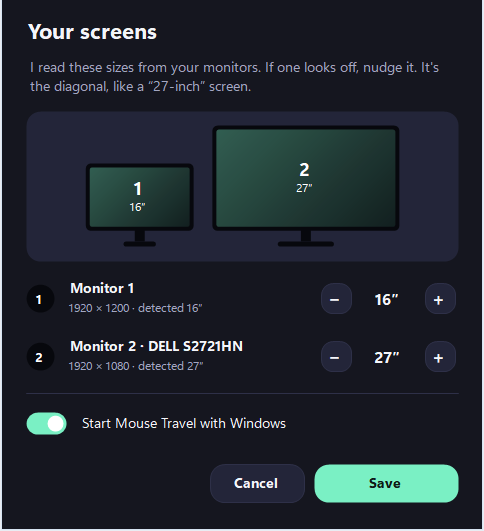
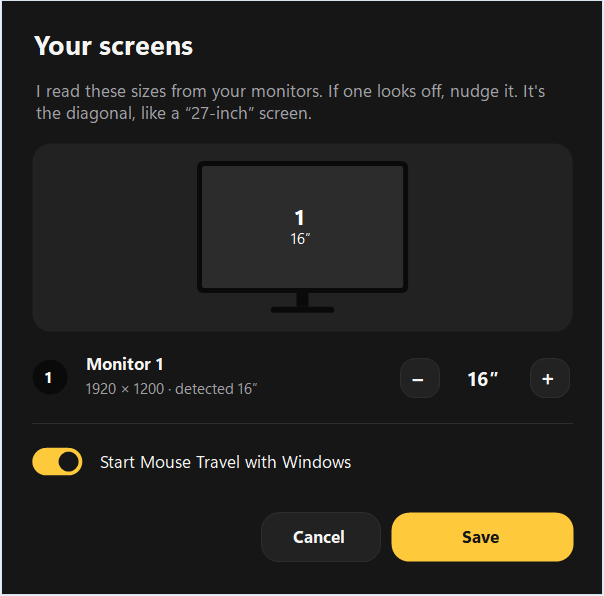
v1.1: flat neutral redesign and reliable start with Windows
- New look: neutral grays, a single road-yellow accent, no gradients
  (popup, odometer, road, Screens window, share card, tray icon)
- Start with Windows now uses a Startup-folder shortcut; some PCs skip
  HKCU Run entries even when approved. Old Run entries migrate automatically.

diff --git a/src/MouseTravel.cs b/src/MouseTravel.cs
@@ -11,6 +11,7 @@ using System.Drawing.Text;
 using System.Globalization;
 using System.IO;
 using System.Management;
+using System.Reflection;
 using System.Runtime.InteropServices;
 using System.Text;
 using System.Threading;
@@ -686,62 +687,80 @@ class TrayApp : ApplicationContext
     }
 
     // --- system
-    // Windows only launches a Run entry that is also switched on under StartupApproved
-    // (the toggle in Task Manager > Startup apps): first byte 02 = enabled, 03 = disabled.
-    const string ApprovedKey = @"Software\Microsoft\Windows\CurrentVersion\Explorer\StartupApproved\Run";
+    // Start with Windows = a shortcut in the user's Startup folder. (Some PCs skip HKCU\...\Run
+    // entries even when approved; the Startup folder is launched reliably.) Task Manager's
+    // Startup apps toggle for it lives under StartupApproved\StartupFolder: odd first byte = disabled.
+    const string ApprovedRunKey = @"Software\Microsoft\Windows\CurrentVersion\Explorer\StartupApproved\Run";
+    const string ApprovedFolderKey = @"Software\Microsoft\Windows\CurrentVersion\Explorer\StartupApproved\StartupFolder";
+    const string ShortcutName = "Mouse Travel.lnk";
 
-    static byte[] Approval()
+    static string ShortcutPath { get { return Path.Combine(Environment.GetFolderPath(Environment.SpecialFolder.Startup), ShortcutName); } }
+
+    static bool Disabled(string approvedKey, string name)
     {
-        try { using (var k = Registry.CurrentUser.OpenSubKey(ApprovedKey)) return k == null ? null : k.GetValue("MouseTravel") as byte[]; }
-        catch { return null; }
+        try
+        {
+            using (var k = Registry.CurrentUser.OpenSubKey(approvedKey))
+            {
+                var a = k == null ? null : k.GetValue(name) as byte[];
+                return a != null && a.Length > 0 && (a[0] & 1) == 1;
+            }
+        }
+        catch { return false; }
+    }
+
+    static void DeleteValue(string key, string name)
+    {
+        try { using (var k = Registry.CurrentUser.OpenSubKey(key, true)) if (k != null) k.DeleteValue(name, false); }
+        catch { }
     }
 
     static bool IsStartup()
     {
-        try
-        {
-            using (var k = Registry.CurrentUser.OpenSubKey(RunKey))
-            {
-                if (k == null || k.GetValue("MouseTravel") == null) return false;
-            }
-            byte[] a = Approval();
-            return a == null || a.Length == 0 || (a[0] & 1) == 0; // odd first byte = disabled
-        }
-        catch { return false; }
+        return File.Exists(ShortcutPath) && !Disabled(ApprovedFolderKey, ShortcutName);
     }
 
     static void SetStartup(bool on)
     {
         try
         {
-            using (var k = Registry.CurrentUser.CreateSubKey(RunKey))
+            if (on)
             {
-                if (on) k.SetValue("MouseTravel", "\"" + Application.ExecutablePath + "\"");
-                else k.DeleteValue("MouseTravel", false);
+                Type t = Type.GetTypeFromProgID("WScript.Shell");
+                object shell = Activator.CreateInstance(t);
+                object lnk = t.InvokeMember("CreateShortcut", BindingFlags.InvokeMethod, null, shell, new object[] { ShortcutPath });
+                Type lt = lnk.GetType();
+                lt.InvokeMember("TargetPath", BindingFlags.SetProperty, null, lnk, new object[] { Application.ExecutablePath });
+                lt.InvokeMember("WorkingDirectory", BindingFlags.SetProperty, null, lnk, new object[] { Path.GetDirectoryName(Application.ExecutablePath) });
+                lt.InvokeMember("Description", BindingFlags.SetProperty, null, lnk, new object[] { "Mouse Travel" });
+                lt.InvokeMember("Save", BindingFlags.InvokeMethod, null, lnk, null);
+                Marshal.FinalReleaseComObject(lnk);
+                Marshal.FinalReleaseComObject(shell);
             }
-            using (var k = Registry.CurrentUser.CreateSubKey(ApprovedKey))
-            {
-                if (on) k.SetValue("MouseTravel", new byte[] { 2, 0, 0, 0, 0, 0, 0, 0, 0, 0, 0, 0 }, RegistryValueKind.Binary);
-                else k.DeleteValue("MouseTravel", false);
-            }
+            else if (File.Exists(ShortcutPath)) File.Delete(ShortcutPath);
+            DeleteValue(ApprovedFolderKey, ShortcutName);
         }
         catch { }
     }
 
-    // Older builds wrote only the Run entry, which Windows skips. Repair it (and a moved .exe path),
-    // but leave it alone if someone switched it off in Task Manager.
+    // Move older installs from the Run key to the Startup folder (unless switched off in Task Manager),
+    // and keep the shortcut pointing at this .exe if it was moved.
     static void RepairStartup()
     {
         try
         {
-            string want = "\"" + Application.ExecutablePath + "\"";
-            using (var k = Registry.CurrentUser.OpenSubKey(RunKey))
+            bool hadRun;
+            using (var k = Registry.CurrentUser.OpenSubKey(RunKey)) hadRun = k != null && k.GetValue("MouseTravel") != null;
+            if (hadRun)
             {
-                object cur = k == null ? null : k.GetValue("MouseTravel");
-                if (cur == null) return;
-                byte[] a = Approval();
-                bool disabledByUser = a != null && a.Length > 0 && (a[0] & 1) == 1;
-                if (!disabledByUser && (a == null || !want.Equals(cur as string, StringComparison.OrdinalIgnoreCase))) SetStartup(true);
+                bool wasOff = Disabled(ApprovedRunKey, "MouseTravel");
+                DeleteValue(RunKey, "MouseTravel");
+                DeleteValue(ApprovedRunKey, "MouseTravel");
+                if (!wasOff) SetStartup(true);
+            }
+            else if (File.Exists(ShortcutPath) && !Disabled(ApprovedFolderKey, ShortcutName))
+            {
+                SetStartup(true); // cheap, and fixes a stale target path
             }
         }
         catch { }
@@ -797,8 +816,9 @@ static class Fonts
 
 // Colors follow the Windows light/dark setting (and High Contrast). The odometer is a physical
 // object, so it stays dark in both. Contrast, worst case per palette:
-//   dark:  secondary #A3A6C2 on raised #232539 = 6.4:1, ink on mint = 12.6:1
-//   light: secondary #5D6080 on white = 6.1:1, accent text #0B7A57 on #F5F5F9 = 4.9:1
+//   dark:  secondary #A1A1A6 on raised #222222 = 6.2:1, ink on road-yellow = 11.8:1
+//   light: secondary #6B6B70 on white = 5.3:1, accent text #8A5A00 on #F6F6F4 = 5.5:1
+// Neutral grays with one accent: the yellow of a road's lane markings. No gradients.
 class Palette
 {
     public bool Dark;
@@ -831,9 +851,9 @@ class Palette
     {
         return new Palette
         {
-            Dark = true, Surface = Hex(0x15161F), Raised = Hex(0x232539), Content = Hex(0xF4F5FA), Secondary = Hex(0xA3A6C2),
-            Hairline = Hex(0x2E3048), Accent = Hex(0x7AF0C4), AccentText = Hex(0x7AF0C4), OnAccent = Hex(0x0E1A16),
-            Signal = Hex(0xFF8ABE), Road = Hex(0x262840), RoadLine = Hex(0x5F6286), TrackOff = Hex(0x5F6286), Bezel = Hex(0x07080D),
+            Dark = true, Surface = Hex(0x161616), Raised = Hex(0x222222), Content = Hex(0xF5F5F3), Secondary = Hex(0xA1A1A6),
+            Hairline = Hex(0x2E2E30), Accent = Hex(0xFFC93C), AccentText = Hex(0xFFC93C), OnAccent = Hex(0x161616),
+            Signal = Hex(0xFFC93C), Road = Hex(0x262626), RoadLine = Hex(0x5A5A5E), TrackOff = Hex(0x636366), Bezel = Hex(0x0A0A0A),
         };
     }
 
@@ -841,9 +861,9 @@ class Palette
     {
         return new Palette
         {
-            Dark = false, Surface = Hex(0xF5F5F9), Raised = Hex(0xFFFFFF), Content = Hex(0x17182A), Secondary = Hex(0x5D6080),
-            Hairline = Hex(0xE2E3EC), Accent = Hex(0x3DDBA3), AccentText = Hex(0x0B7A57), OnAccent = Hex(0x0E1A16),
-            Signal = Hex(0xE0457F), Road = Hex(0xE4E5EE), RoadLine = Hex(0xA9ABC0), TrackOff = Hex(0x85879F), Bezel = Hex(0x2A2C40),
+            Dark = false, Surface = Hex(0xF6F6F4), Raised = Hex(0xFFFFFF), Content = Hex(0x161616), Secondary = Hex(0x6B6B70),
+            Hairline = Hex(0xE4E4E1), Accent = Hex(0xFFC93C), AccentText = Hex(0x8A5A00), OnAccent = Hex(0x161616),
+            Signal = Hex(0x8A5A00), Road = Hex(0xEAEAE7), RoadLine = Hex(0xB0B0B3), TrackOff = Hex(0x8E8E93), Bezel = Hex(0x222222),
         };
     }
 
@@ -948,10 +968,14 @@ class Toggle : CheckBox
 
         float tw = 40 * sc, th = 22 * sc;
         var track = new RectangleF(3 * sc, (Height - th) / 2, tw, th);
-        using (var path = Art.Round(track, th / 2)) using (var b = new SolidBrush(Checked ? pal.Accent : pal.TrackOff)) g.FillPath(b, path);
+        using (var path = Art.Round(track, th / 2))
+        {
+            using (var b = new SolidBrush(Checked ? pal.Accent : pal.TrackOff)) g.FillPath(b, path);
+            if (Checked && !pal.Dark) using (var p = new Pen(pal.AccentText)) g.DrawPath(p, path); // yellow alone is too faint on light gray
+        }
         float d = th - 6 * sc;
         float kx = Checked ? track.Right - 3 * sc - d : track.X + 3 * sc;
-        using (var b = new SolidBrush(Color.White)) g.FillEllipse(b, kx, track.Y + 3 * sc, d, d);
+        using (var b = new SolidBrush(Checked ? pal.OnAccent : Color.White)) g.FillEllipse(b, kx, track.Y + 3 * sc, d, d);
         if (Focused && ShowFocusCues)
         {
             var ring = RectangleF.Inflate(track, 2 * sc, 2 * sc);
@@ -1122,11 +1146,12 @@ class Popup : Form
         float rad = r.Height / 2;
         using (var path = Art.Round(r, rad)) using (var b = new SolidBrush(pal.Road)) g.FillPath(b, path);
         float carX = r.X + r.Height * 0.6f + (r.Width - r.Height * 1.2f) * frac;
-        if (frac > 0)
-            using (var path = Art.Round(new RectangleF(r.X, r.Y, carX - r.X + rad * 0.3f, r.Height), rad))
-            using (var b = new SolidBrush(Color.FromArgb(pal.Dark ? 90 : 150, pal.Accent))) g.FillPath(b, path);
+        // a solid lane line behind the mouse (distance driven), dashes on the road ahead, then a checkered flag
+        float laneStart = r.X + rad * 0.8f;
+        if (carX > laneStart)
+            using (var pen = new Pen(pal.Dark ? pal.Accent : pal.AccentText, S(3)) { StartCap = LineCap.Round, EndCap = LineCap.Round })
+                g.DrawLine(pen, laneStart, r.Y + rad, carX, r.Y + rad);
 
-        // dashes on the road ahead, then a little checkered flag
         float flag = r.Height * 0.48f, flagX = r.Right - rad - flag / 2;
         if (flagX - S(6) > carX + rad)
             using (var pen = new Pen(pal.RoadLine, S(2))) { pen.DashPattern = new float[] { 3, 3 }; g.DrawLine(pen, carX + rad, r.Y + rad, flagX - S(6), r.Y + rad); }
@@ -1140,7 +1165,7 @@ class Popup : Form
         g.TranslateTransform(carX, r.Y + rad);
         g.RotateTransform(90);
         float mw = r.Height * 0.8f, mh = mw * 1.4f;
-        Art.DrawMouse(g, new RectangleF(-mw / 2, -mh / 2, mw, mh), Art.Mint);
+        Art.DrawMouse(g, new RectangleF(-mw / 2, -mh / 2, mw, mh), Art.Yellow);
         g.Restore(state);
     }
 
@@ -1337,8 +1362,8 @@ class SetupForm : Form
                 using (var body = Art.Round(r, S(5))) g.FillPath(bezel, body);
 
                 var screen = new RectangleF(r.X + S(4), r.Y + S(4), r.Width - S(8), r.Height - S(8));
-                using (var glow = new LinearGradientBrush(screen, Color.FromArgb(95, Art.Mint), Color.FromArgb(25, Art.Mint), 45f))
-                using (var sp = Art.Round(screen, S(2))) g.FillPath(glow, sp);
+                using (var glass = new SolidBrush(Palette.Shade(pal.Bezel, 0.14f)))
+                using (var sp = Art.Round(screen, S(2))) g.FillPath(glass, sp);
 
                 var label = Rectangle.Round(screen);
                 var top = new Rectangle(label.X, label.Y, label.Width, label.Height / 2 + S(4));
@@ -1355,9 +1380,9 @@ class SetupForm : Form
 
 static class Art
 {
-    public static readonly Color Mint = Palette.Hex(0x7AF0C4);
-    public static readonly Color Pink = Palette.Hex(0xFF8ABE);
-    static readonly Color Ink = Palette.Hex(0x15161F);
+    public static readonly Color Yellow = Palette.Hex(0xFFC93C);
+    static readonly Color Ink = Palette.Hex(0x161616);
+    static readonly Color Paper = Palette.Hex(0xF5F5F3);
 
     public static GraphicsPath Round(RectangleF r, float radius)
     {
@@ -1391,7 +1416,7 @@ static class Art
         }
         float ww = r.Width * 0.2f, wh = r.Height * 0.2f;
         var wheel = new RectangleF(r.X + (r.Width - ww) / 2, r.Y + r.Height * 0.16f, ww, wh);
-        using (var path = Round(wheel, ww / 2)) using (var b = new SolidBrush(Pink)) g.FillPath(b, path);
+        using (var path = Round(wheel, ww / 2)) using (var b = new SolidBrush(Ink)) g.FillPath(b, path);
         g.SmoothingMode = old;
     }
 
@@ -1409,8 +1434,8 @@ static class Art
         SizeF size = OdometerSize(w, h, intDigits);
         var housing = new RectangleF(at.X, at.Y, size.Width, size.Height);
         using (var path = Round(housing, w * 0.24f))
-        using (var b = new SolidBrush(Palette.Hex(0x07080D)))
-        using (var p = new Pen(Palette.Hex(0x2E3048)))
+        using (var b = new SolidBrush(Palette.Hex(0x0A0A0A)))
+        using (var p = new Pen(Palette.Hex(0x2E2E30)))
         {
             g.FillPath(b, path);
             g.DrawPath(p, path);
@@ -1428,7 +1453,7 @@ static class Art
                 {
                     x += dot - gap;
                     float r = w * 0.075f;
-                    using (var b = new SolidBrush(Palette.Hex(0xF4F5FA))) g.FillEllipse(b, x - dot / 2 - r, y + h * 0.76f - r, r * 2, r * 2);
+                    using (var b = new SolidBrush(Paper)) g.FillEllipse(b, x - dot / 2 - r, y + h * 0.76f - r, r * 2, r * 2);
                 }
                 double pow = Math.Pow(10, place);
                 double whole = Math.Floor(units / pow);
@@ -1447,21 +1472,13 @@ static class Art
         using (var path = Round(r, r.Width * 0.14f))
         {
             g.SetClip(path, CombineMode.Intersect);
-            using (var b = new SolidBrush(tenths ? Mint : Palette.Hex(0x1E2033))) g.FillRectangle(b, r);
+            using (var b = new SolidBrush(tenths ? Yellow : Palette.Hex(0x1F1F1F))) g.FillRectangle(b, r);
             using (var sf = new StringFormat { Alignment = StringAlignment.Center, LineAlignment = StringAlignment.Center })
-            using (var ink = new SolidBrush(tenths ? Palette.Hex(0x0E1A16) : Palette.Hex(0xF4F5FA)))
+            using (var ink = new SolidBrush(tenths ? Ink : Paper))
             {
                 float off = f * r.Height, nudge = r.Height * 0.03f;
                 g.DrawString(digit.ToString(Fun.CI), font, ink, new RectangleF(r.X, r.Y - off + nudge, r.Width, r.Height), sf);
                 if (f > 0) g.DrawString(((digit + 1) % 10).ToString(Fun.CI), font, ink, new RectangleF(r.X, r.Y - off + r.Height + nudge, r.Width, r.Height), sf);
-            }
-            using (var shade = new LinearGradientBrush(new RectangleF(r.X, r.Y - 1, r.Width, r.Height + 2), Color.Black, Color.Black, 90f))
-            {
-                var blend = new ColorBlend();
-                blend.Colors = new[] { Color.FromArgb(150, 0, 0, 0), Color.FromArgb(0, 0, 0, 0), Color.FromArgb(0, 0, 0, 0), Color.FromArgb(150, 0, 0, 0) };
-                blend.Positions = new[] { 0f, 0.32f, 0.68f, 1f };
-                shade.InterpolationColors = blend;
-                g.FillRectangle(shade, r);
             }
         }
         g.Restore(state);
@@ -1476,7 +1493,7 @@ static class Art
         {
             g.Clear(Color.Transparent);
             float w = s * 0.66f, h = s * 0.94f;
-            DrawMouse(g, new RectangleF((s - w) / 2, (s - h) / 2, w, h), Mint);
+            DrawMouse(g, new RectangleF((s - w) / 2, (s - h) / 2, w, h), Yellow);
         }
         return bmp;
     }
@@ -1534,12 +1551,11 @@ static class Art
             if (days[i] > max) { max = days[i]; best = i; }
         }
 
-        Color content = Palette.Hex(0xF4F5FA), secondary = Palette.Hex(0xA3A6C2);
         using (Graphics g = Graphics.FromImage(bmp))
-        using (var white = new SolidBrush(content))
-        using (var dim = new SolidBrush(secondary))
-        using (var mint = new SolidBrush(Mint))
-        using (var pink = new SolidBrush(Pink))
+        using (var white = new SolidBrush(Paper))
+        using (var dim = new SolidBrush(Palette.Hex(0xA1A1A6)))
+        using (var accent = new SolidBrush(Yellow))
+        using (var bar = new SolidBrush(Palette.Hex(0x3A3A3C)))
         using (var fEyebrow = Fonts.Px(26, FontStyle.Bold))
         using (var fHead = Fonts.Px(56, FontStyle.Regular))
         using (var fUnit = Fonts.DisplayPx(72, FontStyle.Bold))
@@ -1553,20 +1569,10 @@ static class Art
         {
             g.SmoothingMode = SmoothingMode.AntiAlias;
             g.TextRenderingHint = TextRenderingHint.AntiAliasGridFit;
-            g.Clear(Palette.Hex(0x121426));
-            using (var glowPath = new GraphicsPath())
-            {
-                glowPath.AddEllipse(520, -420, 980, 980);
-                using (var glow = new PathGradientBrush(glowPath))
-                {
-                    glow.CenterColor = Color.FromArgb(60, Mint);
-                    glow.SurroundColors = new[] { Color.FromArgb(0, Mint) };
-                    g.FillPath(glow, glowPath);
-                }
-            }
+            g.Clear(Palette.Hex(0x161616));
 
             string range = weekStart.ToString("d MMM", Fun.CI) + " – " + weekStart.AddDays(6).ToString("d MMM yyyy", Fun.CI);
-            g.DrawString("MOUSE TRAVEL · WEEKLY TRIP", fEyebrow, mint, 80, 80);
+            g.DrawString("MOUSE TRAVEL · WEEKLY TRIP", fEyebrow, accent, 80, 80);
             g.DrawString(range, fEyebrow, dim, new RectangleF(500, 80, 500, 40), right);
             g.DrawString(thisWeek ? "This week I drove my mouse" : "Last week I drove my mouse", fHead, white, 74, 140);
 
@@ -1583,30 +1589,30 @@ static class Art
             float left = 80, rightEdge = 940, top = 650, roadTop = 868, roadH = 64, bottom = roadTop - 14, bw = 88;
             float gap = (rightEdge - left - 7 * bw) / 6;
             using (var road = Round(new RectangleF(40, roadTop, 1000, roadH), roadH / 2))
-            using (var rb = new SolidBrush(Palette.Hex(0x1E2035))) g.FillPath(rb, road);
+            using (var rb = new SolidBrush(Palette.Hex(0x232323))) g.FillPath(rb, road);
             string[] labels = { "M", "T", "W", "T", "F", "S", "S" };
             for (int i = 0; i < 7; i++)
             {
                 float x = left + i * (bw + gap);
                 float h = (float)Math.Max(10, (bottom - top) * days[i] / max);
                 using (var path = Round(new RectangleF(x, bottom - h, bw, h), Math.Min(16, h / 2)))
-                    g.FillPath(i == best ? pink : mint, path);
+                    g.FillPath(i == best ? accent : bar, path);
                 if (days[i] >= 50)
-                    g.DrawString((days[i] / 1000).ToString("0.0", Fun.CI), fVal, i == best ? pink : dim, new RectangleF(x - 20, bottom - h - 44, bw + 40, 36), center);
+                    g.DrawString((days[i] / 1000).ToString("0.0", Fun.CI), fVal, i == best ? accent : dim, new RectangleF(x - 20, bottom - h - 44, bw + 40, 36), center);
                 if (i == best)
-                    g.DrawString("BEST", fTag, pink, new RectangleF(x - 20, bottom - h - 74, bw + 40, 30), center);
+                    g.DrawString("BEST", fTag, accent, new RectangleF(x - 20, bottom - h - 74, bw + 40, 30), center);
                 g.DrawString(labels[i], fDay, white, new RectangleF(x, roadTop, bw, roadH), center);
                 if (i < 6)
-                    using (var dash = new Pen(Palette.Hex(0x5F6286), 5f)) g.DrawLine(dash, x + bw + gap * 0.3f, roadTop + roadH / 2, x + bw + gap * 0.7f, roadTop + roadH / 2);
+                    using (var dash = new Pen(Palette.Hex(0x5A5A5E), 5f)) g.DrawLine(dash, x + bw + gap * 0.3f, roadTop + roadH / 2, x + bw + gap * 0.7f, roadTop + roadH / 2);
             }
             var state = g.Save();
             g.TranslateTransform(1000, roadTop + roadH / 2);
             g.RotateTransform(90);
-            DrawMouse(g, new RectangleF(-24, -35, 48, 70), Mint);
+            DrawMouse(g, new RectangleF(-24, -35, 48, 70), Yellow);
             g.Restore(state);
 
             g.DrawString("Lifetime " + Fun.Dist(lifetime) + " · " + Fun.MoonPercent(lifetime) + " of the way to the Moon", fFoot, dim, 80, 978);
-            g.DrawString("#MouseTravel", fFoot, mint, new RectangleF(600, 978, 400, 40), right);
+            g.DrawString("#MouseTravel", fFoot, accent, new RectangleF(600, 978, 400, 40), right);
         }
         return bmp;
     }
